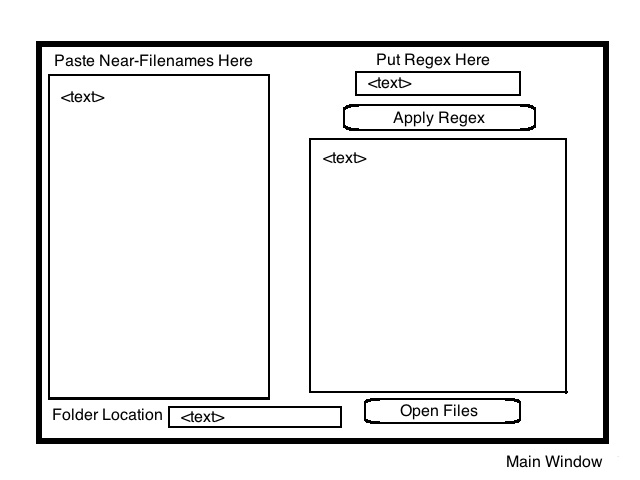
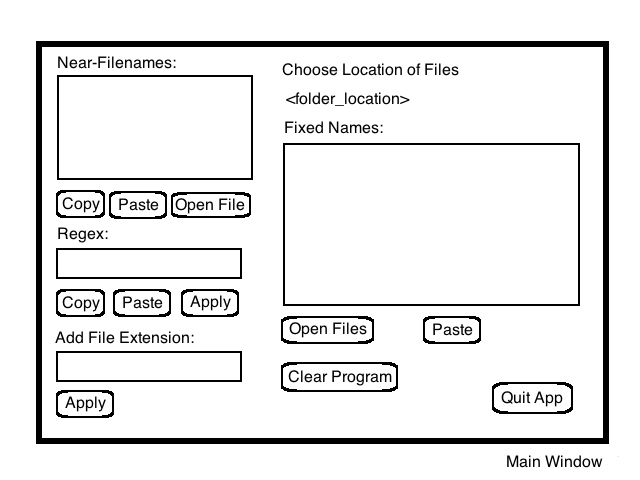
Update main_window.png image for README; add another bug description

Changed region(s): [[0.0625, 0.0938, 0.9062, 0.9062], [0.4375, 0.0938, 0.9062, 0.7188]]

diff --git a/many_file_editor.rb b/many_file_editor.rb
@@ -122,6 +122,8 @@ class ManyFileEditor
                   @editing_window.show
                 end
               end
+              # bug:
+              # add Copy button too
               button "Paste" do
                 @fixed_files_box.text = self.clipboard
               end
